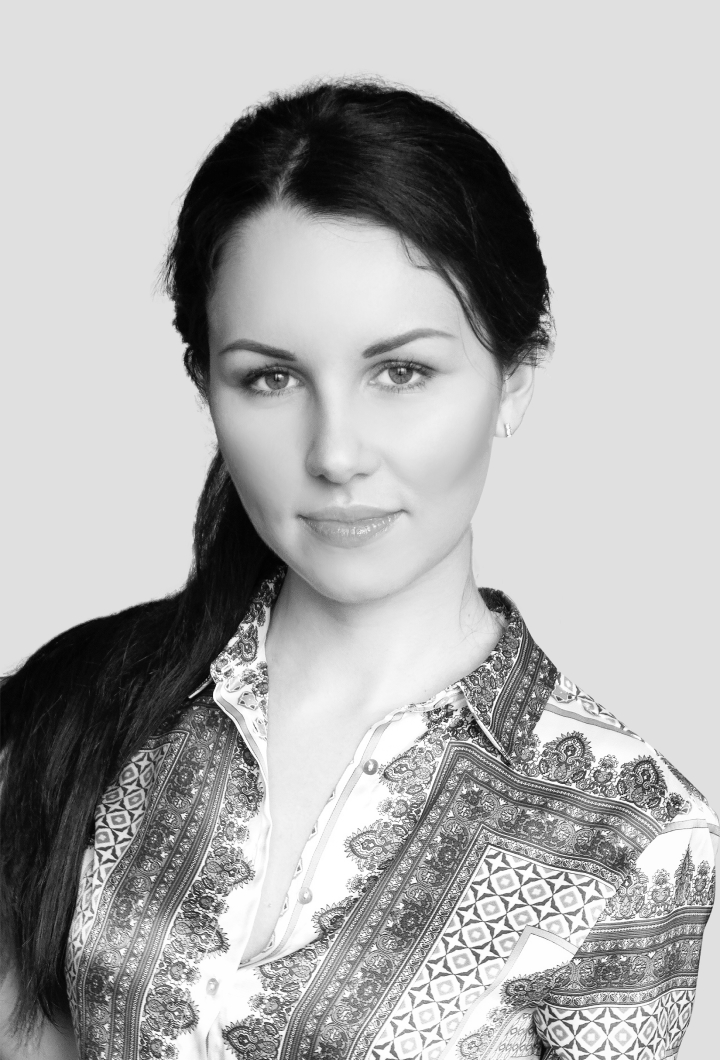
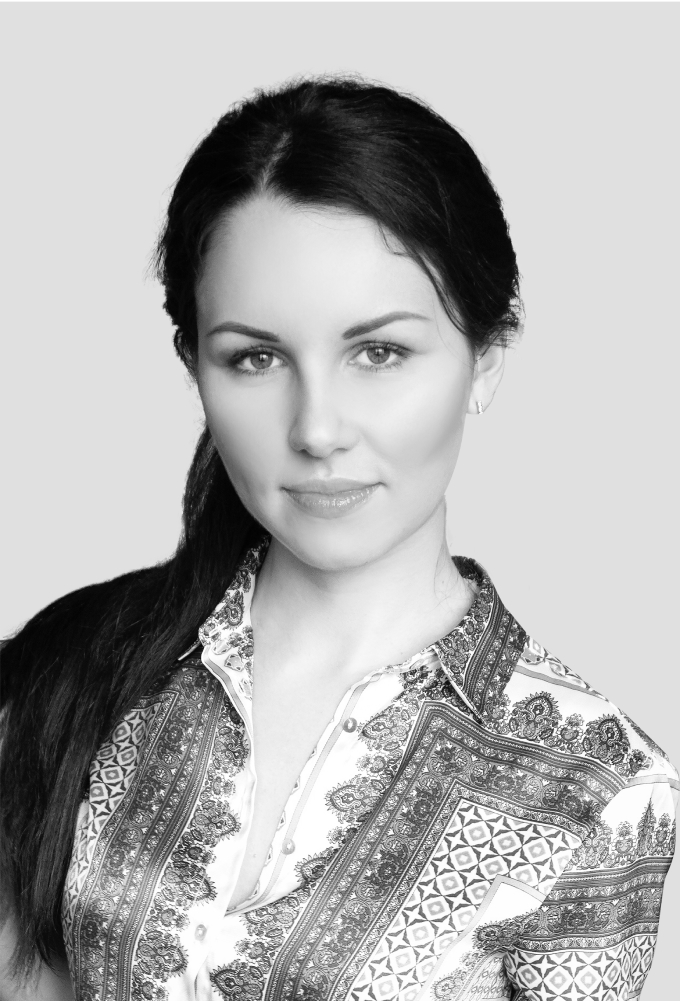
desktop refactoring

diff --git a/index.html b/index.html
@@ -32,14 +32,14 @@
 <section class="top">
   <a href="mailto:guzel@lazarko.com">guzel@lazarko.com</a>
   <a href="tel:+79169220090">+7 916 922 00 90</a>
-  <a href="https://t.me/lazarko" target="_blank" class="desktop">Telegram</a>
+  <a href="tg://resolve?domain=lazarko" target="_blank" class="desktop">Telegram</a>
   <a href="https://www.behance.net/guzellazarko" target="_blank">Behance</a>
 </section>
 
 <section class="meet">
   <div class="flex">
     <div class="c1">
-      <img class="portrait desktop" width="360" height="530" src="./assets/img/me_dsk.jpg"
+      <img class="portrait desktop" width="340" height="500" src="./assets/img/me_dsk.jpg"
            alt="Гузель Лазарко">
       <img class="portrait mobile" width="100" height="100" src="./assets/img/me_mob.jpg" alt="Гузель Лазарко">
     </div>
@@ -50,21 +50,21 @@
         <div class="c2_1">
           <h3>Что умею</h3>
           <p>
-            Я начинающий дизайнер интерфейсов.
-            Живу в Москве.
-            Закончила университет по специальности “Менеджмент организации”.
-            Работала в банке, потом финансовым менеджером в рекламных агентствах.
-            Увлеклась дизайном и решила сменить профессию.
+            Владею Figma, Photoshop, Principle, Tilda.
+            UX - строить гипотезы, прототипировать
+            (Marvel), тестировать, составлять CJM.
+            Разрабатывать мобильные приложения,
+            адаптивный дизайн для любых устройств.
+            Знаю основы типографики, сетки.
           </p>
         </div>
         <div class="c2_2">
-          <h3>Чему хочу научиться</h3>
+          <h3>Что я ищу</h3>
           <p>
-            Я начинающий дизайнер интерфейсов.
-            Живу в Москве.
-            Закончила университет по специальности “Менеджмент организации”.
-            Работала в банке, потом финансовым менеджером в рекламных агентствах.
-            Увлеклась дизайном и решила сменить профессию.
+            Я ищу работу в профессиональной
+            команде. Готова для начала к бесплатной
+            стажировке. Буду рада пообщаться
+            и выполнить тестовое задание.
           </p>
         </div>
       </div>
@@ -75,21 +75,22 @@
     <div class="c2_1">
       <h3>Что умею</h3>
       <p>
-        Я начинающий дизайнер интерфейсов.
-        Живу в Москве.
-        Закончила университет по специальности “Менеджмент организации”.
-        Работала в банке, потом финансовым менеджером в рекламных агентствах.
-        Увлеклась дизайном и решила сменить профессию.
+        Владею Figma, Photoshop, Principle, Tilda.
+        UX - строить гипотезы, прототипировать
+        (Marvel), тестировать, составлять CJM.
+        Разрабатывать мобильные приложения,
+        адаптивный дизайн для любых устройств.
+        Знаю основы типографики, сетки.
       </p>
     </div>
     <div class="c2_2">
       <h3>Чему хочу научиться</h3>
       <p>
-        Я начинающий дизайнер интерфейсов.
-        Живу в Москве.
-        Закончила университет по специальности “Менеджмент организации”.
-        Работала в банке, потом финансовым менеджером в рекламных агентствах.
-        Увлеклась дизайном и решила сменить профессию.
+        Illustrator, After Effects - знаю минимум.
+        Практика UX, построение интерфейсов
+        исходя из реальной аналитики.
+        Основы HTML и CSS для лучшего
+        понимания технических возможностей.
       </p>
     </div>
   </div>
@@ -215,27 +216,24 @@
   </div>
 </section>
 
-<section class="speech">
-  Я ищу работу в профессиональной команде.
-  Готова для начала к бесплатной стажировке.
-  Буду рада пообщаться и выполнить тестовое задание.
-</section>
-
 <section class="contacts">
   <h1 class="gray">Контакты</h1>
   <div>
-    <a href="mailto:guzel@lazarko.com">guzel@lazarko.com</a><br>
-    <a href="tel:+79169220090">+7 916 922 00 90</a>
+    <a href="mailto:guzel@lazarko.com">guzel@lazarko.com</a><br><br>
+
     <div class="flex">
       <div>
-        <a href="https://t.me/lazarko" class="br" target="_blank">Telegram</a>
+        <a href="tel:+79169220090">+7 916 922 00 90</a>
+      </div>
+      <div>
+        <a href="tg://resolve?domain=lazarko" class="br" target="_blank">Telegram</a>
       </div>
       <div>
         <a href="https://www.behance.net/guzellazarko" target="_blank">Behance</a>
       </div>
-      <div>
-        <a href="https://www.facebook.com/glazarko" target="_blank">Facebook</a>
-      </div>
+<!--      <div>-->
+<!--        <a href="https://www.facebook.com/glazarko" target="_blank">Facebook</a>-->
+<!--      </div>-->
     </div>
   </div>
 </section>

diff --git a/assets/main.css b/assets/main.css
@@ -28,6 +28,8 @@ body {
   font-family: 'Root UI Regular';
   margin: 0;
   padding: 0;
+  font-size: 18px;
+  line-height: 30px;
 }
 
 h1, h2, h3 {
@@ -48,7 +50,7 @@ h3 {
 
 
 section {
-  margin-top: 100px;
+  margin-top: 200px;
   padding: 0 100px;
 }
 
@@ -62,7 +64,7 @@ section:nth-child(1), section:nth-child(2) {
 
 h1.gray {
   color: gray;
-  margin: 50px 0;
+  margin: 50px 0 100px 0;
   font-size: 48px;
 }
 
@@ -72,7 +74,7 @@ h1.gray {
 
 .top {
   text-align: right;
-  padding: 0 100px 20px 0;
+  padding: 20px 100px 20px 0;
 }
 
 .top a {
@@ -83,14 +85,14 @@ h1.gray {
 
 
 .meet .c2{
-  padding: 55px 100px 0 55px;
+  padding: 120px 0 0 55px;
 }
 
 .meet h1 {
   font-style: normal;
   font-weight: normal;
-  font-size: 48px;
-  line-height: 59px;
+  font-size: 36px;
+  line-height: 48px;
 }
 
 .project {
@@ -103,13 +105,14 @@ h1.gray {
 
 .meet .c1 {
   width: 360px;
+  padding-top: 54px;
 }
 .meet .c2 {
   padding-left: 60px;
 }
 .meet .c2_inner{
   display: flex;
-  padding-top: 50px;
+  padding-top: 80px;
 }
 
 
@@ -121,11 +124,11 @@ h1.gray {
 }
 
 .portfolio {
-  margin-top: 100px;
+  margin-top: 180px;
 }
 
 .project {
-  margin-top: 100px;
+  margin-top: 160px;
 }
 
 .project:first-of-type {
@@ -133,10 +136,11 @@ h1.gray {
 }
 
 .project h2 {
-  font-size: 64px;
+  font-size: 36px;
   font-weight: normal;
   font-style: normal;
-  line-height: 79px;
+  line-height: 70px;
+  padding-bottom: 10px;
 }
 
 .project p{
@@ -150,8 +154,15 @@ h1.gray {
   flex: 1 1 50%;
 }
 
+.carousel-arrows {
+  position: absolute;
+  bottom: 0;
+  padding-bottom: 20px;
+}
+
 .project-l .c1 {
   padding-right: 20px;
+  position: relative;
 }
 
 .project-l .c1, .project-r .c2 {
@@ -177,6 +188,7 @@ h1.gray {
 .project-r .c2 {
   padding-left: 60px;
   order: 1;
+  position: relative;
 }
 
 .prev, .next {
@@ -184,9 +196,13 @@ h1.gray {
 }
 
 .about-me {
-  margin-top: 100px;
+  /*margin-top: 100px;*/
   /*padding: 0 100px;*/
 
+}
+
+.experience {
+  margin-top: -40px;
 }
 
 .experience > div {
@@ -198,7 +214,7 @@ h1.gray {
 }
 
 .experience .row1, .experience .row2 {
-  padding: 20px 0;
+  padding: 40px 0;
   /*border-top: 1px solid gray;*/
 }
 
@@ -223,17 +239,6 @@ h1.gray {
   font-size: 18px;
   line-height: 30px;
   opacity: 0.8;
-}
-
-.speech {
-  font-family: 'Prosto One', sans-serif;
-  font-style: normal;
-  font-weight: normal;
-  font-size: 32px;
-  line-height: 48px;
-  width: 50%;
-  padding-bottom: 100px;
-  float: right;
 }
 
 .contacts {
@@ -271,10 +276,40 @@ h1.gray {
   text-align: center;
 }
 
+.contacts .gray {
+  margin-bottom: 80px;
+}
 
-@media (max-width: 768px) {
+@media (max-width: 1390px) {
+  .meet .c2 {
+    padding-top: 54px;
+  }
+  .project-r .c2 {
+    padding-top: 0;
+  }
+  .project-l .c1 {
+    padding-top: 0;
+  }
+  .carousel-arrows {
+    padding-bottom: 0;
+  }
+}
+
+@media (max-width: 1220px) {
+  .meet .c2_inner {
+    display: block;
+    padding-top: 60px;
+  }
+
+  .meet .c2_inner .c2_2 {
+    padding-left: 0;
+  }
+}
+
+
+@media (max-width: 1000px) {
   section {
-    margin-top: 100px;
+    margin-top: 120px;
     padding: 0 15px;
   }
 
@@ -389,13 +424,6 @@ h1.gray {
 
   .project.project-r {
     margin-left: 0;
-  }
-
-  .speech {
-    width: initial;
-    float: none;
-    padding-bottom: initial;
-    font-size: 18px;
   }
 
   .contacts .flex {
